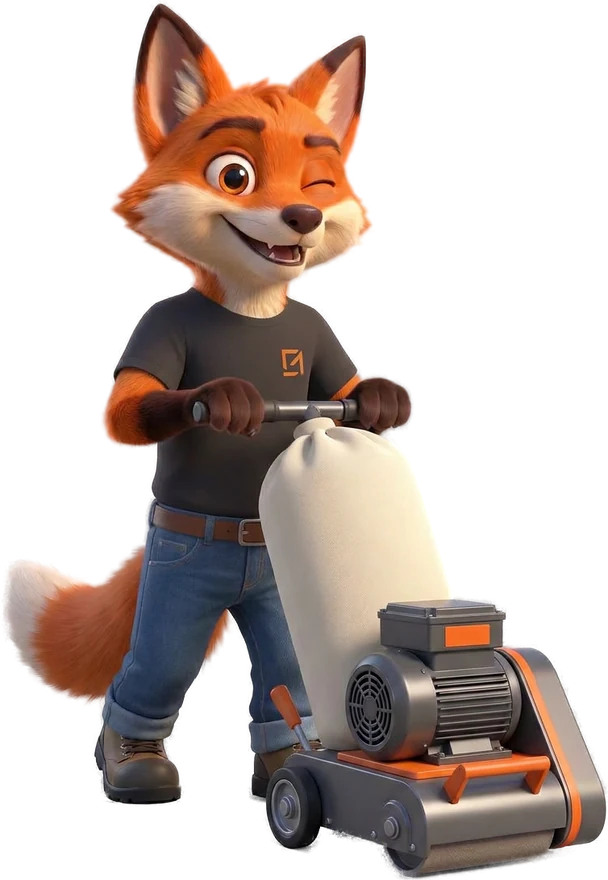
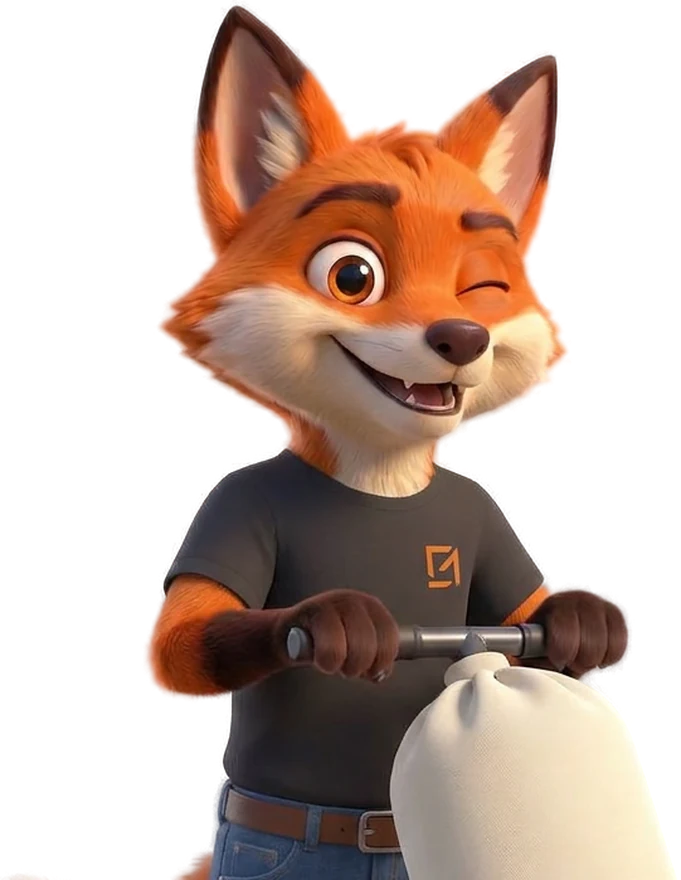
ObraCrew: saudacao no mesmo tamanho do ObraQuote
Claude-Session: https://claude.ai/code/session_01JdHcppQfjTLQ1pGK69MRMQ

diff --git a/crm/public/campo/hoje.html b/crm/public/campo/hoje.html
@@ -14,7 +14,7 @@
   <link rel="stylesheet" href="/om-tokens.css?v=20261105-apps3" />
   <link rel="stylesheet" href="/om-ui.css?v=20261105-apps3" />
   <link rel="stylesheet" href="campo.css?v=20261106-crew-top1" />
-  <link rel="stylesheet" href="dia.css?v=20261106-fix2" />
+  <link rel="stylesheet" href="dia.css?v=20261106-hello1" />
   <script src="/om-device.js?v=20261013-badge1"></script>
   <link rel="stylesheet" href="/om-stable-viewport.css?v=20261007-stable1" id="om-stable-viewport-css" />
   <link rel="manifest" href="/obracrew.webmanifest?v=1" />
@@ -53,7 +53,7 @@
   <script src="campo-photo.js?v=20261105-apps3"></script>
   <script src="campo-media-queue.js?v=20261104-exif1"></script>
   <script src="campo-nav.js?v=20261106-crew-sector1"></script>
-  <script src="dia.js?v=20261106-crew-sector1"></script>
+  <script src="dia.js?v=20261106-hello1"></script>
   <link rel="stylesheet" href="/mate-panel.css?v=20261027-m2" />
   <script src="/mate-panel.js?v=20261106-quote2"></script>
 </body>

diff --git a/crm/public/campo/dia.css b/crm/public/campo/dia.css
@@ -403,9 +403,8 @@ body.dy-lock { overflow: hidden; }
   justify-content: space-between;
   gap: 6px;
   min-height: 128px;
-  margin-top: 0;
+  margin-top: 26px;
   padding: 16px;
-  padding-right: 112px;
   border-radius: 20px;
   background: linear-gradient(120deg, #FFF6EE 0%, #FCE7D5 55%, #F8D4B4 100%);
   border: 1px solid #F3DCC6;
@@ -457,13 +456,13 @@ body.dy-lock { overflow: hidden; }
   color: var(--ink);
 }
 .dy-hello-mate {
-  position: absolute;
+  position: relative;
   z-index: 1;
-  right: -4px;
-  bottom: 0;
+  flex: none;
+  align-self: flex-end;
   width: auto;
-  height: 132px;
-  margin: 0;
+  height: 150px;
+  margin: -54px -6px -16px 0;
   pointer-events: none;
   filter: drop-shadow(0 4px 6px rgba(120, 60, 20, 0.16));
   transform-origin: 60% 100%;

diff --git a/crm/public/campo/dia.js b/crm/public/campo/dia.js
@@ -402,7 +402,7 @@
           ${helloMetaHtml()}
           <h1>${esc(hello)}</h1>
         </div>
-        <img class="dy-hello-mate" src="${S.employee && S.employee.sector === "sand_finish" ? "/assets/img/mascot/mate-crew-lixa.webp?v=1" : "/assets/img/mascot/mate-crew.webp?v=1"}" alt="" width="167" height="220" decoding="async" fetchpriority="high" />
+        <img class="dy-hello-mate" src="${S.employee && S.employee.sector === "sand_finish" ? "/assets/img/mascot/mate-crew-lixa.webp?v=2" : "/assets/img/mascot/mate-crew.webp?v=1"}" alt="" width="167" height="220" decoding="async" fetchpriority="high" />
       </header>
       ${attentionHtml()}
       ${quickActionsHtml()}

diff --git a/crm/public/campo/horas.html b/crm/public/campo/horas.html
@@ -9,7 +9,7 @@
   <link rel="icon" type="image/png" href="/assets/favicon-192.png?v=20260924-pwa" />
   <link href="https://fonts.googleapis.com/css2?family=Plus+Jakarta+Sans:wght@400;500;600;700;800&display=swap" rel="stylesheet" />
   <link rel="stylesheet" href="campo.css?v=20261106-crew-top1" />
-  <link rel="stylesheet" href="dia.css?v=20261106-fix2" />
+  <link rel="stylesheet" href="dia.css?v=20261106-hello1" />
   <script src="/om-device.js?v=20261013-badge1"></script>
   <link rel="stylesheet" href="/om-stable-viewport.css?v=20261007-stable1" id="om-stable-viewport-css" />
   <link rel="manifest" href="/obracrew.webmanifest?v=1" />

diff --git a/crm/public/sw.js b/crm/public/sw.js
@@ -28,11 +28,11 @@ const PRECACHE = [
   "/mate-panel.css?v=20261027-m2",
   "/mate-panel.js?v=20261106-quote2",
   "/campo/hoje.html",
-  "/campo/dia.css?v=20261106-fix2",
+  "/campo/dia.css?v=20261106-hello1",
   "/photo-exif.js?v=20261104-exif1",
   "/campo/campo-photo.js?v=20261105-apps3",
   "/campo/campo-media-queue.js?v=20261104-exif1",
-  "/campo/dia.js?v=20261106-crew-sector1",
+  "/campo/dia.js?v=20261106-hello1",
   "/campo/horas.html",
   "/campo/horas.js?v=20261105-field1",
   "/campo/index.html",
